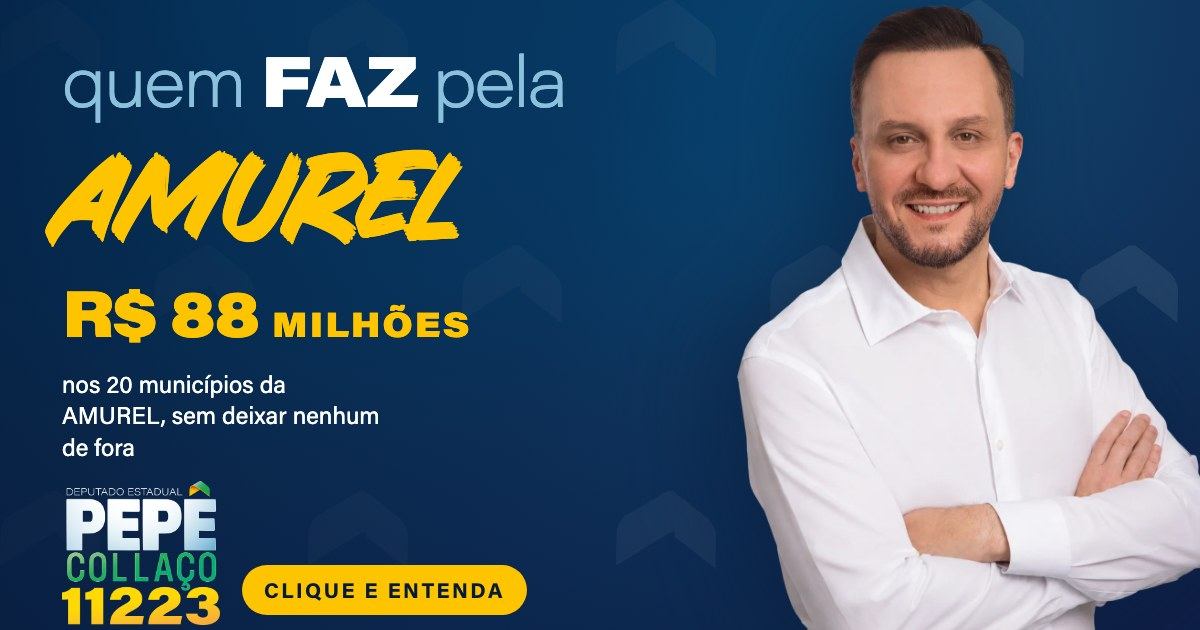
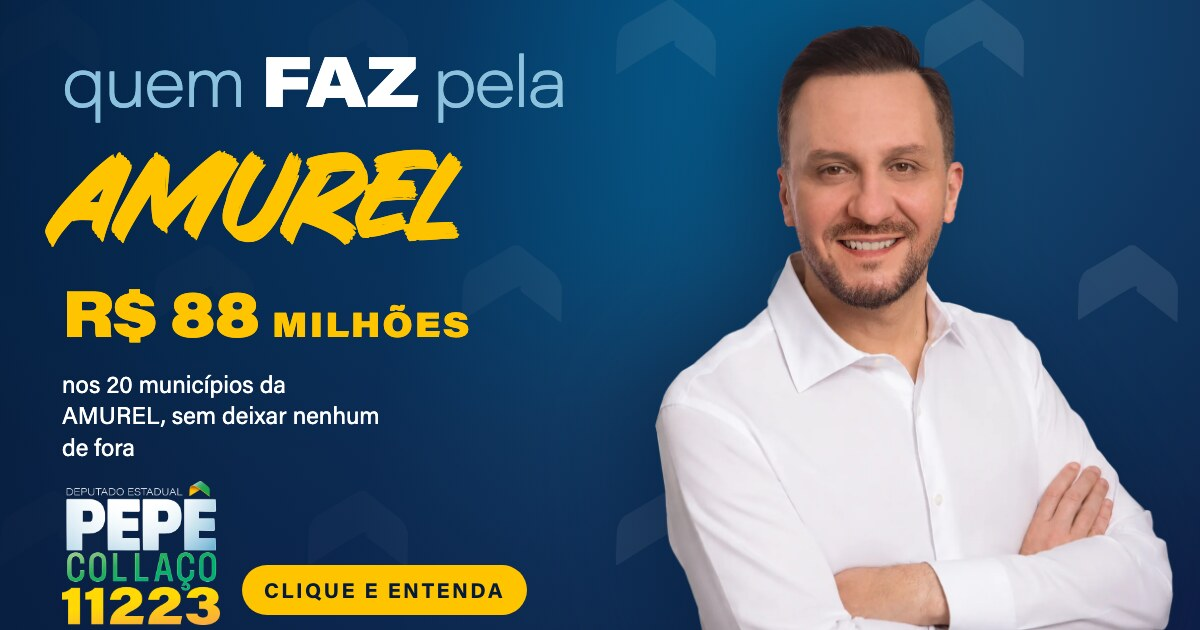
Dá ao retrato do deputado a metade direita das imagens de compartilhamento
Em todo cartão de link o busto sangrava pela direita, e como o ponto mais
largo do recorte é a linha dos cotovelos, o braço cruzado saía cortado rente
à borda. O véu, que existe para o texto da esquerda ter contraste, ia até a
borda direita e ainda passava por cima da camisa branca, deixando o retrato
acinzentado.

Passa a valer uma geometria só, escrita em _IDENTIDADE/CLAUDE.md: altura 690,
margem POSITIVA de 26 à direita e sangria de 84 pela base, que fecha logo
abaixo das mãos. Dá 519x690 e ocupa a metade direita do quadro. O véu fecha
em 62%, antes de onde ele começa, e o retrato é pintado depois dele — no
Satori, que ignora z-index, isso quer dizer o div do véu antes do img no JSX.

A coluna de texto dos moldes cai de 830 para 790, senão a linha do título
passava por cima do ombro agora que o retrato cresceu.

De quebra, sincronizar.sh e verificar.sh ainda apontavam para pepecollaco-site/,
pasta que não existe desde que a raiz do repositório virou o site: sync_site
avisava "não existe, pulando" em silêncio, ou seja, dist/ era regenerado e o
site continuava com os assets velhos.

Claude-Session: https://claude.ai/code/session_01RxwJ4NfG7PRUFfvMzEZHJU

Changed region(s): [[0.5242, 0.0, 1.0, 1.0], [0.4933, 0.0, 0.6167, 0.2714], [0.5242, 0.3016, 0.555, 0.3317]]

diff --git a/quem-faz/og/template.html b/quem-faz/og/template.html
@@ -46,15 +46,23 @@
             mask-size: var(--textura-tamanho);
     opacity: .085;
   }
-  /* véu: sem ele o amarelo cai sobre o #0082BF do canto e reprova em contraste */
+  /* véu: sem ele o amarelo cai sobre o #0082BF do canto e reprova em contraste.
+     Fecha em 62%, antes de onde o retrato começa: a rampa existe para o texto
+     da esquerda, e quando ela chegava à borda direita saía por cima da camisa. */
   .quadro::after {
     content: ""; position: absolute; inset: 0;
-    background: linear-gradient(105deg, rgba(6,26,58,.86) 0%, rgba(10,33,72,.66) 46%, rgba(14,30,70,.12) 78%);
+    background: linear-gradient(100deg, rgba(6,26,58,.90) 0%, rgba(10,33,72,.74) 34%,
+      rgba(14,30,70,.22) 52%, rgba(14,30,70,0) 62%);
   }
 
+  /* Geometria do padrão (ver "Retrato nas OG" em _IDENTIDADE/CLAUDE.md):
+     altura 690, direita 26, base -84 — 519x690, ocupando a metade direita.
+     A margem da direita é positiva de propósito: o ponto mais largo do
+     recorte é a linha dos cotovelos, e sangria pela direita corta o braço
+     cruzado. Quem sangra é a base, que fecha logo abaixo das mãos. */
   .retrato {
-    position: absolute; right: -18px; bottom: -14px;
-    height: 640px; width: auto;
+    position: absolute; right: 26px; bottom: -84px;
+    height: 690px; width: auto;
     z-index: 1;
     filter: drop-shadow(-22px 8px 52px rgba(6,26,58,.6));
   }
@@ -64,7 +72,10 @@
     height: 100%;
     padding: 56px 62px 44px;
     display: flex; flex-direction: column;
-    max-width: 830px;
+    /* 790, e não 830: com o retrato ocupando a metade direita, a linha
+       do título passava por cima do ombro. Aqui ela fecha em 728px,
+       50px antes do primeiro pixel do cabelo. */
+    max-width: 790px;
   }
   /* nada encolhe: numa coluna flex apertada o navegador esmaga a régua até
      sumir e come o rodapé por baixo. Melhor estourar visível do que sumir. */

diff --git a/tubarao/ruas/og/template.html b/tubarao/ruas/og/template.html
@@ -39,15 +39,23 @@
             mask-size: var(--textura-tamanho);
     opacity: .085;
   }
-  /* véu: sem ele o amarelo cai sobre o #0082BF do canto e reprova em contraste */
+  /* véu: sem ele o amarelo cai sobre o #0082BF do canto e reprova em contraste.
+     Fecha em 62%, antes de onde o retrato começa: a rampa existe para o texto
+     da esquerda, e quando ela chegava à borda direita saía por cima da camisa. */
   .quadro::after {
     content: ""; position: absolute; inset: 0;
-    background: linear-gradient(105deg, rgba(6,26,58,.86) 0%, rgba(10,33,72,.66) 46%, rgba(14,30,70,.12) 78%);
+    background: linear-gradient(100deg, rgba(6,26,58,.90) 0%, rgba(10,33,72,.74) 34%,
+      rgba(14,30,70,.22) 52%, rgba(14,30,70,0) 62%);
   }
 
+  /* Geometria do padrão (ver "Retrato nas OG" em _IDENTIDADE/CLAUDE.md):
+     altura 690, direita 26, base -84 — 519x690, ocupando a metade direita.
+     A margem da direita é positiva de propósito: o ponto mais largo do
+     recorte é a linha dos cotovelos, e sangria pela direita corta o braço
+     cruzado. Quem sangra é a base, que fecha logo abaixo das mãos. */
   .retrato {
-    position: absolute; right: -18px; bottom: -14px;
-    height: 640px; width: auto;
+    position: absolute; right: 26px; bottom: -84px;
+    height: 690px; width: auto;
     z-index: 1;
     filter: drop-shadow(-22px 8px 52px rgba(6,26,58,.6));
   }
@@ -57,7 +65,10 @@
     height: 100%;
     padding: 46px 62px 48px;
     display: flex; flex-direction: column;
-    max-width: 830px;
+    /* 790, e não 830: com o retrato ocupando a metade direita, a linha
+       do título passava por cima do ombro. Aqui ela fecha em 728px,
+       50px antes do primeiro pixel do cabelo. */
+    max-width: 790px;
   }
   .conteudo > * { flex: none; }
 

diff --git a/assets/brand/css/tokens.css b/assets/brand/css/tokens.css
@@ -1,4 +1,4 @@
-/* GERADO por _IDENTIDADE v1.2.0 — não edite aqui.
+/* GERADO por _IDENTIDADE v1.2.1 — não edite aqui.
    Edite _IDENTIDADE/src/ e rode ./bin/sincronizar.sh */
 /* ============================================================================
    Pepê Collaço 11223 — tokens canônicos da identidade visual

diff --git a/IDENTIDADE.md b/IDENTIDADE.md
@@ -5,7 +5,7 @@ precisar decidir cor, fonte, logo ou fundo, a resposta está aqui. Onde este
 documento e o código divergirem, **este documento está certo e o código está
 desatualizado**.
 
-Versão 1.1.0 · fonte-verdade em `_IDENTIDADE/` · originais da agência em `_ARTE /`
+Versão 1.2.1 · fonte-verdade em `_IDENTIDADE/` · originais da agência em `_ARTE /`
 
 ---
 
@@ -429,6 +429,61 @@ braços cruzados. É o hero natural sobre o fundo azul.
 
 Existe um `FOTO PEPE_azul (NÃO USAR).png` na pasta da arte. O nome é a instrução.
 O pipeline aborta se alguém apontar para ele.
+
+**Ele olha para a esquerda de quem vê.** Por isso o lugar dele é a metade
+direita da peça, olhando para dentro, e o texto fica à esquerda. Invertido, ele
+olha para fora do quadro e a peça perde o eixo. Não espelhe a foto para
+resolver: a repartição do cabelo e a mão por cima do braço trocam de lado e
+quem conhece percebe.
+
+### Retrato nas OG
+
+Padrão de 10/09/2026, e vale para **toda** peça 1200×630 de compartilhamento —
+o `og-11223.jpg` do site, os moldes de `quem-faz/og/` e `tubarao/ruas/og/`, e as
+open-graph do credenciamento em `app/**/opengraph-image.tsx`.
+
+```
+busto      foto/pepe-busto-*            (677 × 900, proporção 0,752)
+altura     690 px      →  519 px de largura, ~44% do quadro
+direita    26 px       margem POSITIVA
+base       −84 px      sangra por baixo
+```
+
+Fica 519×690 ocupando de x 655 a x 1174, com uns 20 px de respiro acima do
+cabelo. É a metade direita do cartão inteira.
+
+Três regras, e as três nasceram de cartão feio publicado:
+
+1. **A margem da direita é positiva.** O ponto mais largo do recorte é a linha
+   dos cotovelos, lá embaixo — qualquer `right` negativo corta o braço cruzado
+   rente à borda, que é exatamente o que os cartões faziam até 09/2026.
+2. **Quem sangra é a base.** O corte fecha logo abaixo das mãos: o gesto de
+   braços cruzados aparece inteiro e não sobra faixa morta no pé.
+3. **O véu não passa por cima dele.** O véu existe para o texto da esquerda
+   ganhar contraste sobre a parte clara do degradê. Ele fecha em **62%**, antes
+   de onde o retrato começa, e o retrato é pintado **depois** dele (no Satori,
+   que ignora `z-index`, isso quer dizer: o `<div>` do véu vem antes do `<img>`
+   no JSX). Rampa que ia até a borda direita deixava a camisa branca cinza.
+
+```css
+/* moldes em HTML */
+.veu { background: linear-gradient(100deg,
+  rgba(6,26,58,.92) 0%, rgba(6,26,58,.80) 34%,
+  rgba(6,26,58,.22) 52%, rgba(6,26,58,0) 62%); }
+.retrato { position: absolute; right: 26px; bottom: -84px; height: 690px; }
+```
+
+**A coluna de texto fecha em ~730 px.** No terço de cima o primeiro pixel de
+cabelo está em x 778, então dá para chegar perto; da metade para baixo o ombro
+avança até x 657, e aí nada de texto pode passar de ~640. Na dúvida, 730 é o
+teto seguro para a linha mais larga. O Satori não quebra `<span>` sozinho dentro
+de uma coluna: frase que não cabe em uma linha vai em dois `<span>` empilhados,
+não numa linha só torcendo para caber.
+
+**A exceção é `app/autoridades/opengraph-image.tsx`**, onde o conteúdo ocupa a
+largura inteira e a marca fica no canto superior direito: lá o busto entra com
+altura 470 e base −60, mesma margem de 26 à direita e mesmo corte, só menor.
+Cartão de operação interna, não de compartilhamento.
 
 ---
 

diff --git a/_IDENTIDADE/CLAUDE.md b/_IDENTIDADE/CLAUDE.md
@@ -5,7 +5,7 @@ precisar decidir cor, fonte, logo ou fundo, a resposta está aqui. Onde este
 documento e o código divergirem, **este documento está certo e o código está
 desatualizado**.
 
-Versão 1.1.0 · fonte-verdade em `_IDENTIDADE/` · originais da agência em `_ARTE /`
+Versão 1.2.1 · fonte-verdade em `_IDENTIDADE/` · originais da agência em `_ARTE /`
 
 ---
 
@@ -429,6 +429,61 @@ braços cruzados. É o hero natural sobre o fundo azul.
 
 Existe um `FOTO PEPE_azul (NÃO USAR).png` na pasta da arte. O nome é a instrução.
 O pipeline aborta se alguém apontar para ele.
+
+**Ele olha para a esquerda de quem vê.** Por isso o lugar dele é a metade
+direita da peça, olhando para dentro, e o texto fica à esquerda. Invertido, ele
+olha para fora do quadro e a peça perde o eixo. Não espelhe a foto para
+resolver: a repartição do cabelo e a mão por cima do braço trocam de lado e
+quem conhece percebe.
+
+### Retrato nas OG
+
+Padrão de 10/09/2026, e vale para **toda** peça 1200×630 de compartilhamento —
+o `og-11223.jpg` do site, os moldes de `quem-faz/og/` e `tubarao/ruas/og/`, e as
+open-graph do credenciamento em `app/**/opengraph-image.tsx`.
+
+```
+busto      foto/pepe-busto-*            (677 × 900, proporção 0,752)
+altura     690 px      →  519 px de largura, ~44% do quadro
+direita    26 px       margem POSITIVA
+base       −84 px      sangra por baixo
+```
+
+Fica 519×690 ocupando de x 655 a x 1174, com uns 20 px de respiro acima do
+cabelo. É a metade direita do cartão inteira.
+
+Três regras, e as três nasceram de cartão feio publicado:
+
+1. **A margem da direita é positiva.** O ponto mais largo do recorte é a linha
+   dos cotovelos, lá embaixo — qualquer `right` negativo corta o braço cruzado
+   rente à borda, que é exatamente o que os cartões faziam até 09/2026.
+2. **Quem sangra é a base.** O corte fecha logo abaixo das mãos: o gesto de
+   braços cruzados aparece inteiro e não sobra faixa morta no pé.
+3. **O véu não passa por cima dele.** O véu existe para o texto da esquerda
+   ganhar contraste sobre a parte clara do degradê. Ele fecha em **62%**, antes
+   de onde o retrato começa, e o retrato é pintado **depois** dele (no Satori,
+   que ignora `z-index`, isso quer dizer: o `<div>` do véu vem antes do `<img>`
+   no JSX). Rampa que ia até a borda direita deixava a camisa branca cinza.
+
+```css
+/* moldes em HTML */
+.veu { background: linear-gradient(100deg,
+  rgba(6,26,58,.92) 0%, rgba(6,26,58,.80) 34%,
+  rgba(6,26,58,.22) 52%, rgba(6,26,58,0) 62%); }
+.retrato { position: absolute; right: 26px; bottom: -84px; height: 690px; }
+```
+
+**A coluna de texto fecha em ~730 px.** No terço de cima o primeiro pixel de
+cabelo está em x 778, então dá para chegar perto; da metade para baixo o ombro
+avança até x 657, e aí nada de texto pode passar de ~640. Na dúvida, 730 é o
+teto seguro para a linha mais larga. O Satori não quebra `<span>` sozinho dentro
+de uma coluna: frase que não cabe em uma linha vai em dois `<span>` empilhados,
+não numa linha só torcendo para caber.
+
+**A exceção é `app/autoridades/opengraph-image.tsx`**, onde o conteúdo ocupa a
+largura inteira e a marca fica no canto superior direito: lá o busto entra com
+altura 470 e base −60, mesma margem de 26 à direita e mesmo corte, só menor.
+Cartão de operação interna, não de compartilhamento.
 
 ---
 
